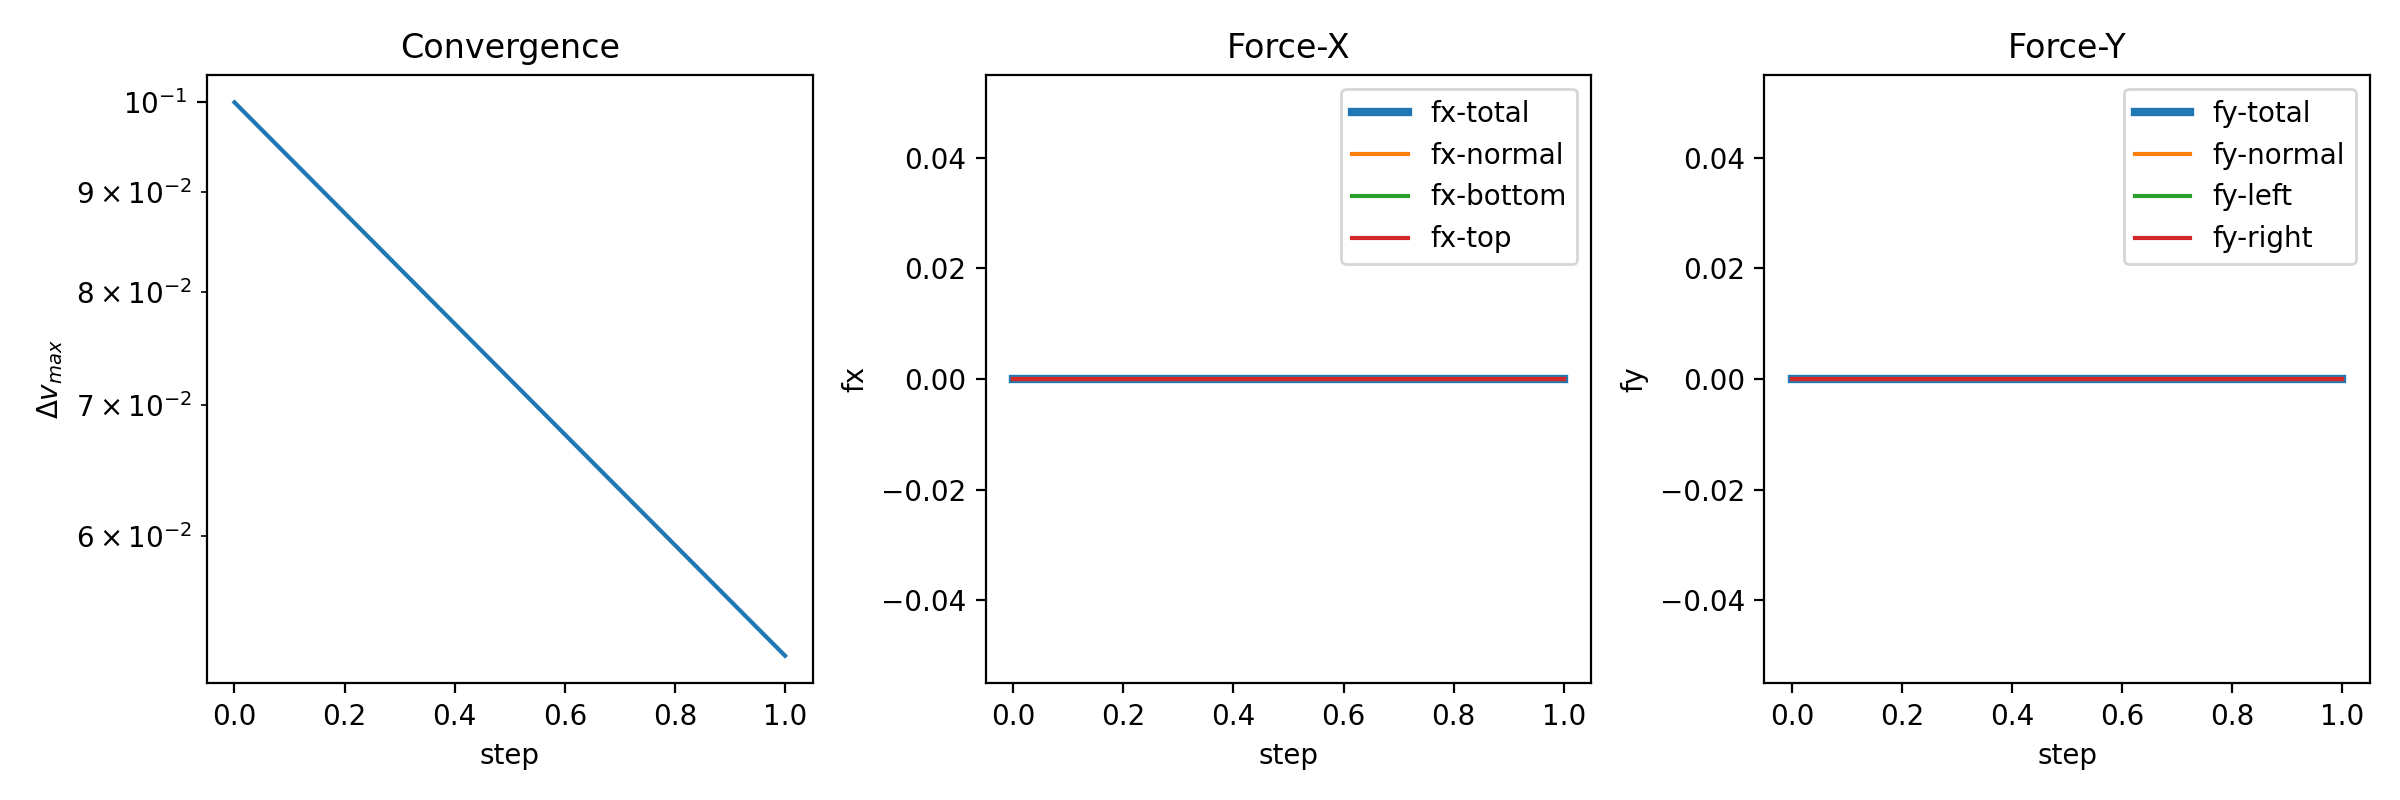
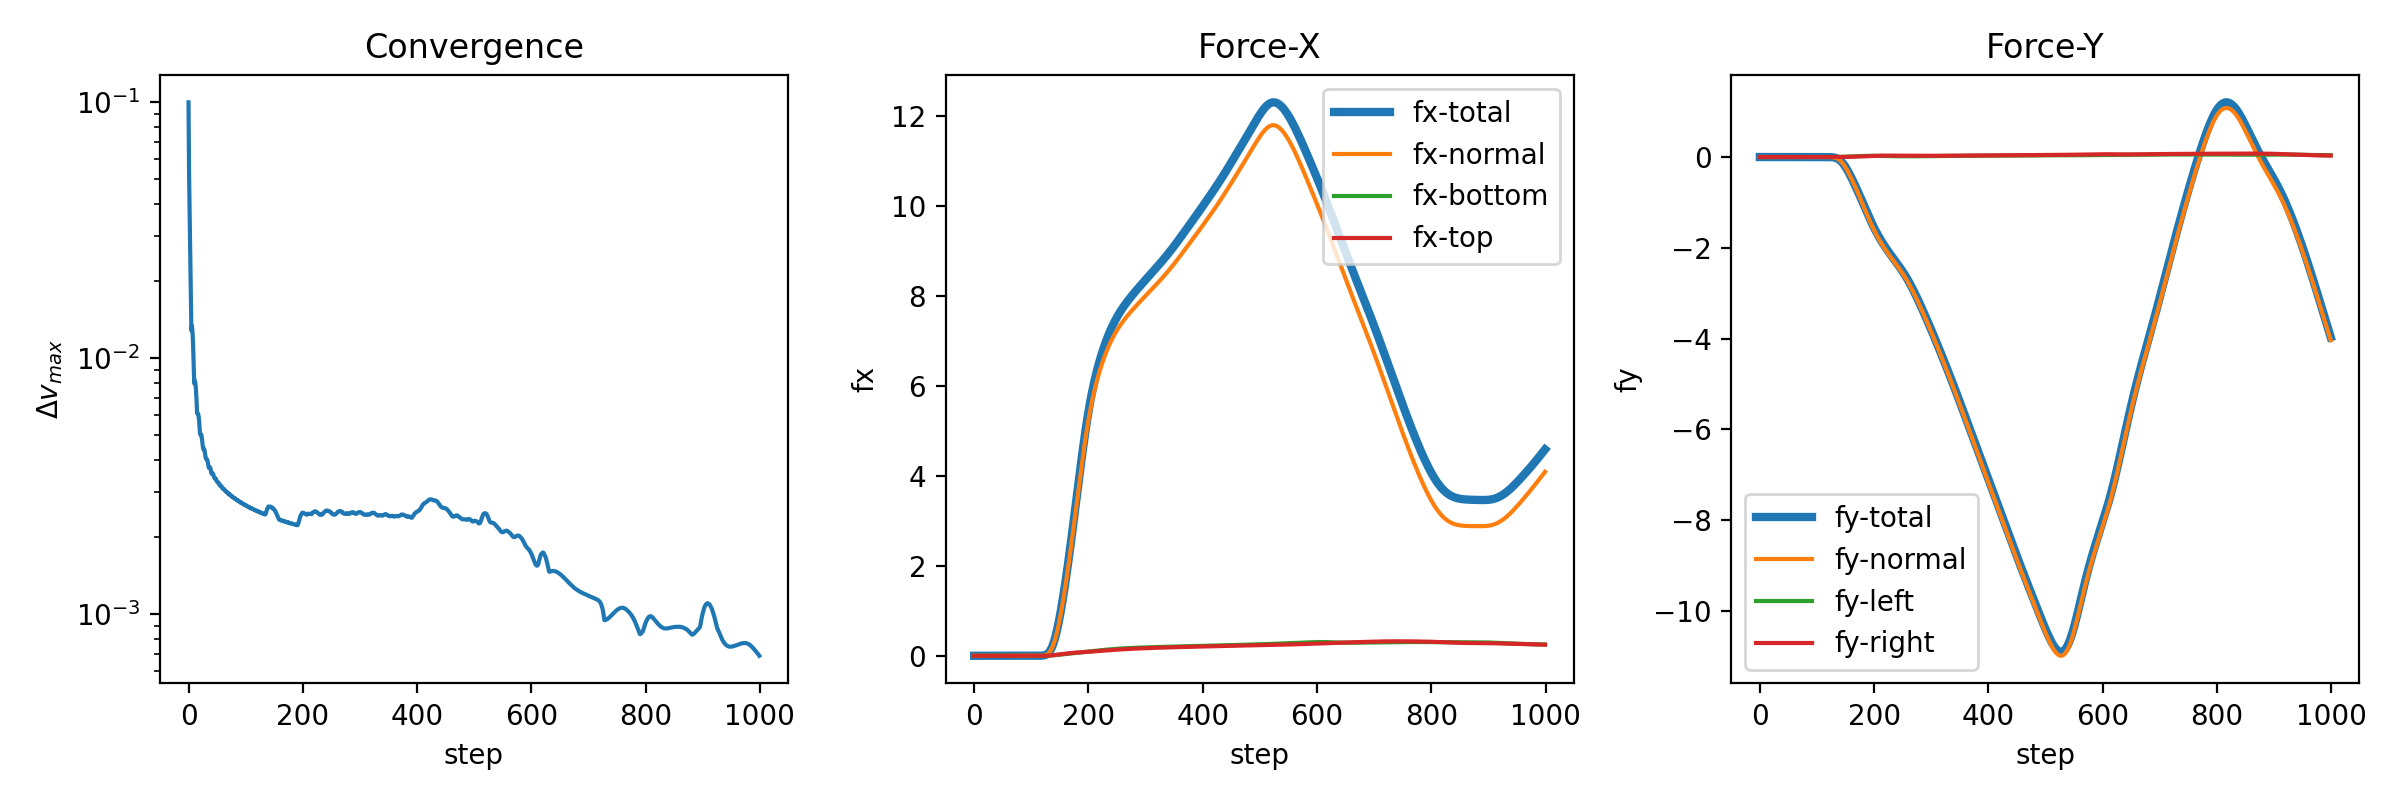
Update

diff --git a/Vessel.py b/Vessel.py
@@ -229,6 +229,6 @@ if __name__ == '__main__':
             'fyR': []
         }
         cb = {'postMacro': [cb_vel, cb_get_final_result]}
-        S.total_steps = 500
+        S.total_steps = 1000
         S.sim(steps=S.total_steps, callbacks=cb)
     pygame_loop()
